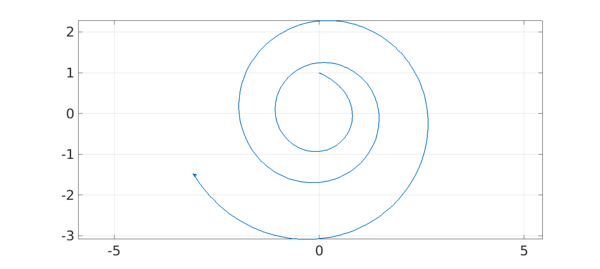
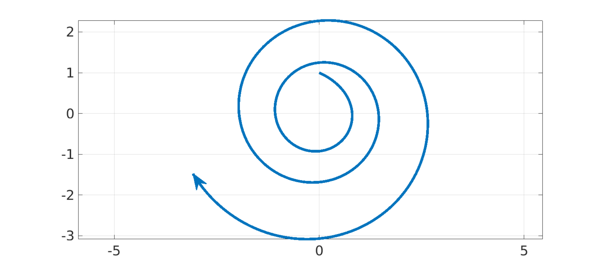
Publish example ode-linear/FrozenCoeffs.
This message was auto-generated by publish-example.sh.

diff --git a/examples/ode-linear/FrozenCoeffs.html b/examples/ode-linear/FrozenCoeffs.html
@@ -76,7 +76,8 @@ L.op = @(t,u,v) ...
    [diff(u) - (-1+m*cos(t)*sin(t))*u - m*cos(t)^2*v ; ...
     diff(v) - (-m*sin(t)^2)*u - (-1-m*cos(t)*sin(t))*v];
 [u,v] = L\0;
-arrowplot(u,v), grid on, axis equal</pre>
+arrowplot(u,v,'linewidth',5,'markersize',30,'ystretch',2)
+grid on, axis equal</pre>
 
 <p><img src="img/FrozenCoeffs_01.png" class="figure" alt=""></p>
 <h3 id="4-transition-to-turbulence">4. Transition to turbulence</h3>

diff --git a/examples/ode-linear/img/FrozenCoeffs.html b/examples/ode-linear/img/FrozenCoeffs.html
@@ -35,7 +35,8 @@ L.op = @(t,u,v) ...
    [diff(u) - (-1+m*cos(t)*sin(t))*u - m*cos(t)^2*v ; ...
     diff(v) - (-m*sin(t)^2)*u - (-1-m*cos(t)*sin(t))*v];
 [u,v] = L\0;
-arrowplot(u,v), grid on, axis equal</pre><img src="img/FrozenCoeffs_01.png" class="figure" alt="">
+arrowplot(u,v,'linewidth',5,'markersize',30,'ystretch',2)
+grid on, axis equal</pre><img src="img/FrozenCoeffs_01.png" class="figure" alt="">
 
 
 

diff --git a/index.html b/index.html
@@ -269,5 +269,5 @@ plot(minx(1),minx(2),'.w')
     <script type="text/javascript" src="/js/config.js"></script>
     <script type="text/javascript" src="/js/jquery.flexslider-min.js"></script>
   </body>
-<!-- Compiled on Tuesday, 18 April 2017 at 13:49. -->
+<!-- Compiled on Tuesday, 18 April 2017 at 15:33. -->
 </html>
